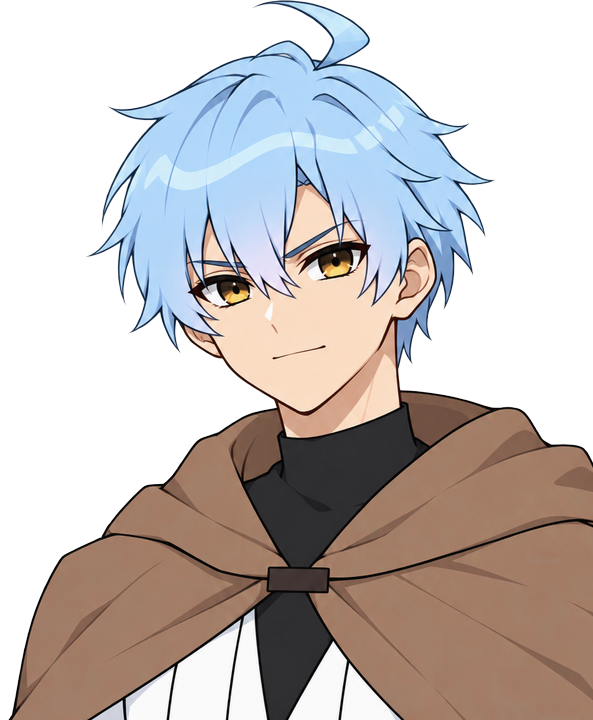
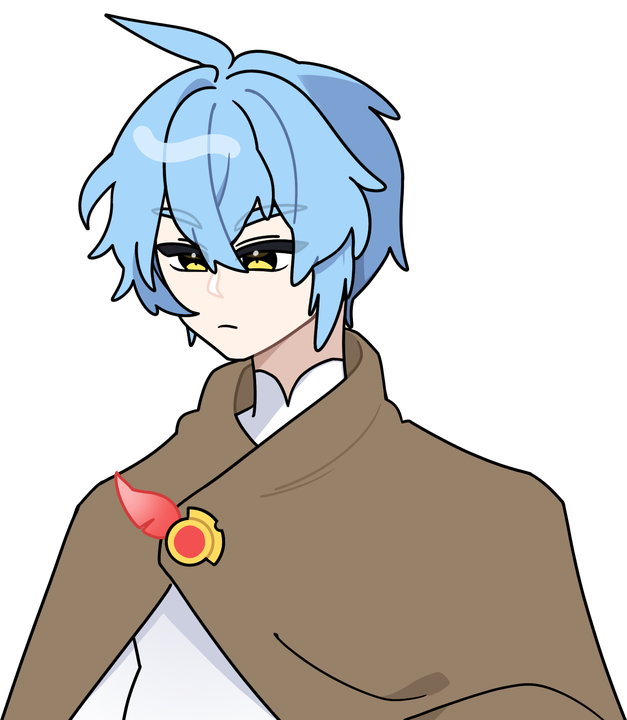
fix(chapters): replace redrawn character art in place
The 2026-10-16 art pass redrew three sets under the same names: the
fairy (new winged design, matching the bg-20 background), the male
hero, and villager B. Re-export them over the published files with
scripts/process-art-refresh.py so stored scene URLs and lib/character.ts
keep working unchanged — no DB migration, no code change.

Sets are cropped to their shared figure box and scaled to 720 tall; the
male hero reuses the female set's exact transform (same template). The
legacy WxH suffixes stay; the reader sizes figures by height.

diff --git a/frontend/scripts/process-art-refresh.py b/frontend/scripts/process-art-refresh.py
@@ -1,0 +1,84 @@
+"""Re-export the character sets the artist redrew in the 2026-10-16 art pass
+(new fairy design, new male hero, new villager B) OVER the published files.
+
+The published file names — including their `WxH` suffixes — are referenced by
+stored scenes and `lib/character.ts`, so they are kept as-is; only the pixels
+change. The reader sizes figures by height, so a set's real width may differ
+from its legacy name.
+
+Framing follows the art that is already published from the same templates:
+- Fairy, villager B: crop to the set's shared figure box (union across the
+  expressions, so the framing never jumps between them), scale to 720 tall.
+- Male hero: the exact transform of the published female set (same 2800×1867
+  template), so both heroes keep the size the artist drew them at.
+
+Usage: python scripts/process-art-refresh.py <images dir> <public characters dir>
+"""
+import os
+import sys
+
+from PIL import Image
+
+SRC = sys.argv[1]  # contains ตัวละคร/
+OUT = sys.argv[2]  # frontend/public/images/characters
+
+HEIGHT = 720
+# Female hero framing: source rows 110..1867 → published 0..720.
+HERO_TOP, HERO_BOTTOM = 110, 1867
+
+
+def load(folder, name):
+    return Image.open(os.path.join(SRC, "ตัวละคร", folder, name)).convert("RGBA")
+
+
+def union_box(images):
+    boxes = [im.getchannel("A").point(lambda v: 255 if v > 8 else 0).getbbox() for im in images]
+    return (min(b[0] for b in boxes), min(b[1] for b in boxes),
+            max(b[2] for b in boxes), max(b[3] for b in boxes))
+
+
+def export(images, box, published):
+    x0, y0, x1, y1 = box
+    scale = HEIGHT / (y1 - y0)
+    size = (round((x1 - x0) * scale), HEIGHT)
+    for im, name in zip(images, published):
+        out = im.crop(box).resize(size, Image.LANCZOS)
+        path = os.path.join(OUT, name)
+        if not os.path.exists(path):
+            sys.exit(f"refusing to create {name}: only published files are overwritten")
+        out.save(path, optimize=True)
+        print(f"{name:36s} {out.width}x{out.height}  {os.path.getsize(path) // 1024:4d} KB")
+
+
+def refresh(folder, files, published, box=None):
+    images = [load(folder, f) for f in files]
+    if box is None:
+        box = union_box(images)
+    elif callable(box):
+        box = box(union_box(images))
+    export(images, box, published)
+
+
+# ── Fairy (new design), Drive numbering → published slugs ──
+fairy = [
+    ("01-ภูติ ปกติ.png", "normal"), ("02-ภูติ - สับสน.png", "confused"),
+    ("03-ภูติ - สงสัย.png", "curious"), ("04-ภูติ - มุ่งมั่น.png", "determined"),
+    ("05-ภุติ - ยิ้ม.png", "happy"), ("06-ภูติ - เป็นห่วง.png", "worried"),
+    ("07-ภูติ - ตื่นเต้น.png", "excited"), ("08-ภูติ ตกใจ.png", "shocked"),
+    ("09-ภูติ - กลัว.png", "scared"), ("10-ภูติ - ร้องไห้.png", "crying"),
+]
+refresh("ภูติน้อย", [f for f, _ in fairy], [f"fairy-{s}-560x720.png" for _, s in fairy])
+
+# ── Male hero (new design) ──
+male = [
+    ("01-ผู้กล้า ปกติ.png", "normal"), ("02-ผู้กล้า ป่วยๆ.png", "sick"),
+    ("03-ผู้กล้า สงสัย.png", "curious"), ("04-ผู้กล้า ยิ้ม.png", "smile"),
+    ("05-ผู้กล้า ตื่นเต้น.png", "excited"), ("06-ผู้กล้า มุ่งมั่น.png", "determined"),
+    ("07-ผู้กล้า ตกใจ.png", "shocked"),
+]
+refresh("ผู้กล้า-ชาย", [f for f, _ in male], [f"main-male-{s}-593x720.png" for _, s in male],
+        box=lambda b: (b[0], HERO_TOP, b[2], HERO_BOTTOM))
+
+# ── Villager B (new design) ──
+refresh("ชาวบ้าน B", ["01-ชาวบ้าน - ปกติ.png", "02-ชาวบ้าน - ป่วยๆ.png"],
+        ["villager-b-normal-540x720.png", "villager-b-sick-540x720.png"])
